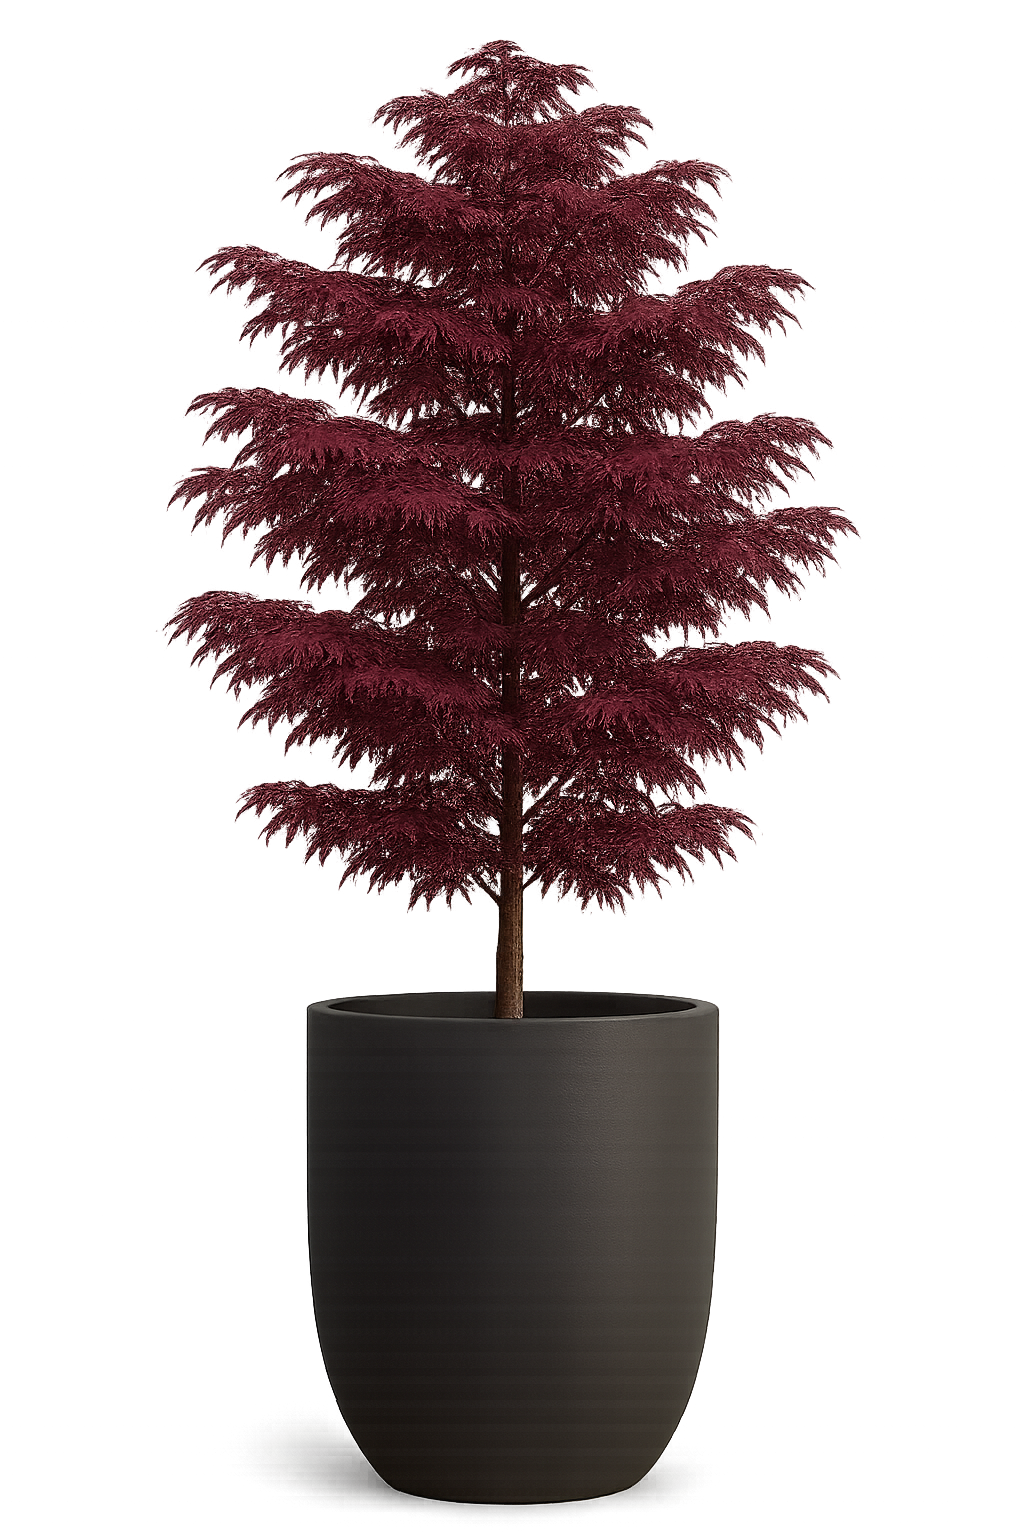
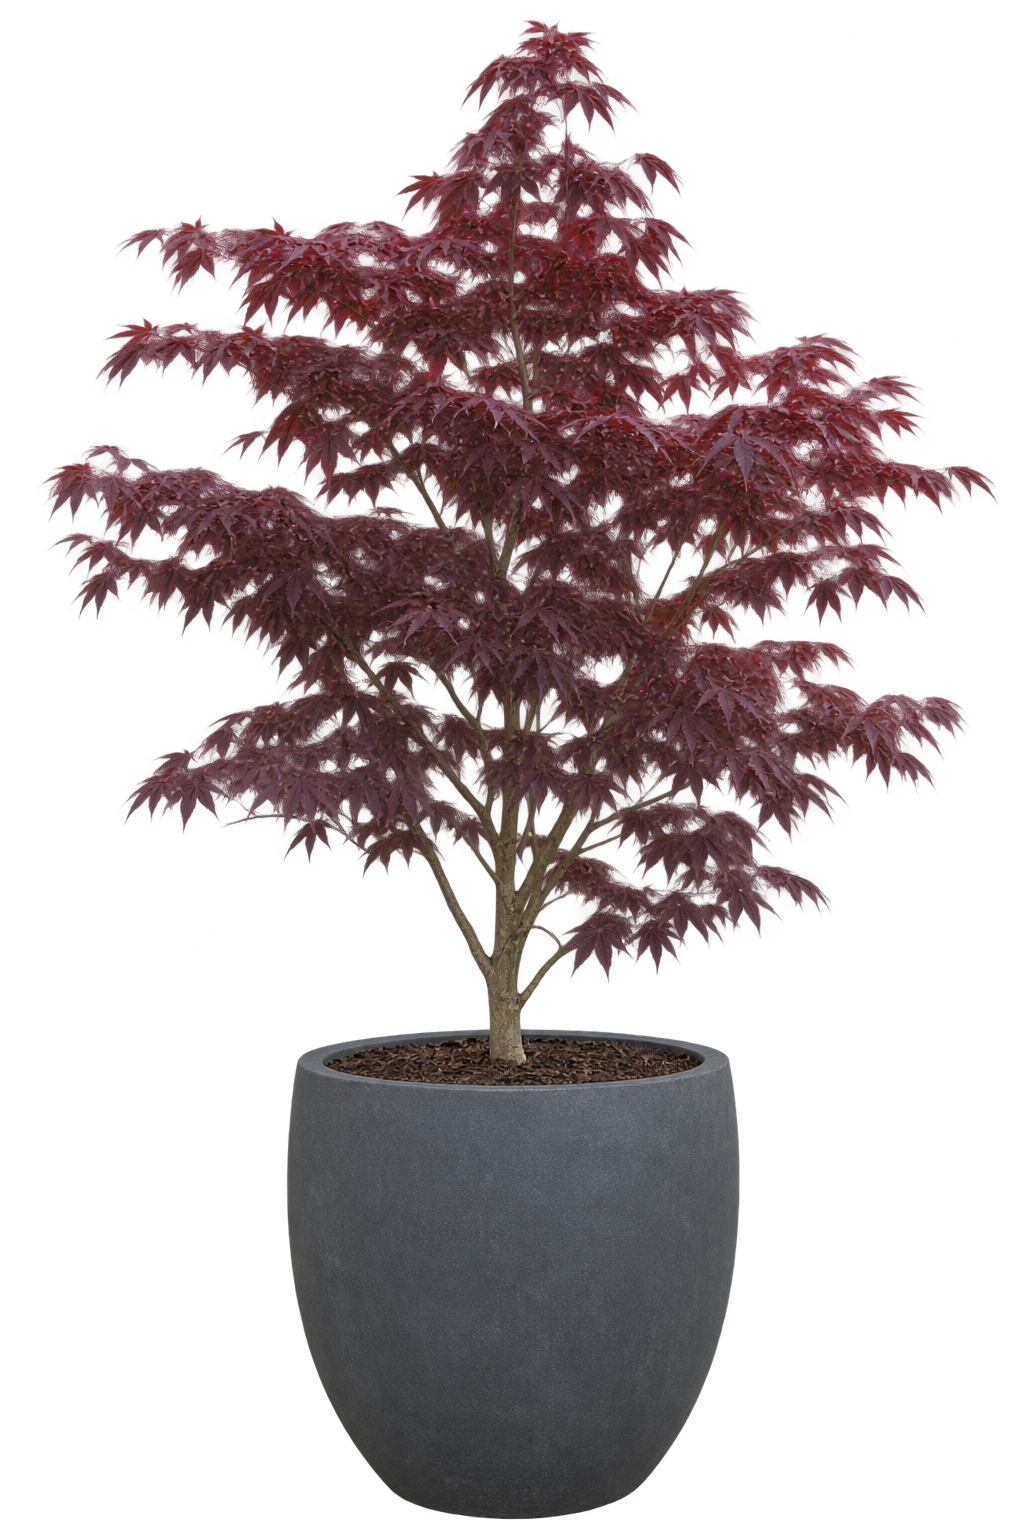
Paysagiste : sujets photoréalistes, posés avant les massifs (IA plante autour, sujets protégés), accord lumière et saturation, massifs en grandes masses
Claude-Session: https://claude.ai/code/session_01YAY5e847xAxdGDXU5Ma8dK

diff --git a/rendu/paysage/paysagiste.py b/rendu/paysage/paysagiste.py
@@ -150,6 +150,10 @@ def consigne_image(c, zones):
     if c.get('reperes'): lignes.append('Échelle : ' + c['reperes'] + '. Respecter les hauteurs indiquées.')
     lignes.append("Ne rien changer chez les voisins ni dans la rue (voitures, portails, clôtures voisines). Les produits en bois "
                   "(pergola, terrasse, clôtures) restent identiques : les plantes poussent devant, jamais à leur place.")
+    lignes.append("Plantation de paysagiste : grandes masses de 5 à 7 pieds de la même plante, répétées, sol entièrement "
+                  "couvert, pas de plantes annuelles ni de fleurs de balcon (pas de pétunias, surfinias, géraniums de balcon). "
+                  "Les pots et bacs déjà posés restent tels quels : les massifs les entourent et passent un peu devant leur pied, "
+                  "avec une ombre douce au sol.")
     lignes.append("Plantes installées depuis deux ou trois ans, sol couvert, bordures nettes. Photo naturelle et crédible, "
                   "pas un rendu 3D. Pas de personnage, pas de construction ajoutée.")
     return '\n'.join(lignes)
@@ -166,11 +170,16 @@ def union_calques(args):
     return u
 
 
-def poser(massifs, c, args, sortie):
-    pj = os.path.join(args.dossier, '_sujets.json')
+def poser(base, c, args, sortie):
+    """Pose les grands sujets sur l'image de base ; renvoie le calque produits + sujets (protégé de l'IA)."""
+    pj = os.path.join(args.dossier, '_sujets.json'); mj = os.path.join(args.dossier, '_sujets_masque.png')
     json.dump([{'sujet': s['sujet'], 'x': s['sol_px'][0], 'y': s['sol_px'][1]} for s in c.get('sujets', []) if s['sujet'] in SUJ], open(pj, 'w'))
-    r = subprocess.run(['python3', os.path.join(ICI, 'poser_sujets.py'), massifs, pj, args.cam, union_calques(args), sortie], capture_output=True, text=True)
+    r = subprocess.run(['python3', os.path.join(ICI, 'poser_sujets.py'), base, pj, args.cam, union_calques(args), sortie, '-', mj], capture_output=True, text=True)
     if r.returncode: raise RuntimeError(r.stderr[-1500:])
+    from PIL import ImageChops
+    cal = Image.open(args.calque).convert('RGBA'); a = ImageChops.lighter(cal.getchannel('A'), Image.open(mj).getchannel('A').resize(cal.size))
+    u = os.path.join(args.dossier, '_produits_sujets.png'); o = Image.new('RGBA', cal.size, (128, 128, 128, 0)); o.putalpha(a); o.save(u)
+    return u
 
 
 def generer(base, zones, c, args, sortie, tag):
@@ -183,7 +192,7 @@ def generer(base, zones, c, args, sortie, tag):
     fj = os.path.join(args.dossier, '_aucune.json'); json.dump([], open(fj, 'w'))
     if c.get('parcelle_px'):
         pj = os.path.join(args.dossier, 'parcelle.json'); json.dump([c['parcelle_px']], open(pj, 'w')); env['PARCELLE'] = pj
-    cmd = ['python3', os.path.join(RENDU, 'amenage.py'), base, zj, '1', cj, sortie, args.calque,
+    cmd = ['python3', os.path.join(RENDU, 'amenage.py'), base, zj, '1', cj, sortie, getattr(args, 'calque_ia', args.calque),
            args.pieds if args.pieds != '-' else vide, args.terrasse if args.terrasse != '-' else vide,
            '0.0']
     r = subprocess.run(cmd, env=env, capture_output=True, text=True)
@@ -306,24 +315,31 @@ def main():
     cp = os.path.join(a.dossier, 'concept.json')
     c = json.load(open(cp)) if os.path.exists(cp) else concept(img, cal, a.ville, a.dep, a.style, cp)
     print('concept :', c['titre'], '|', c['exposition'], '|', len(c['zones']), 'zones', flush=True)
-    mas = os.path.join(a.dossier, 'v0_massifs.jpg'); cur = os.path.join(a.dossier, 'v0.jpg')
-    if not os.path.exists(mas): generer(a.image, c['zones'], c, a, mas, 'v0')
-    poser(mas, c, a, cur)
+    def version(tag, c_, base_massifs, zones):
+        """sujets posés d'abord, puis massifs IA autour (sujets protégés, sauf le bas du pot)"""
+        suj = os.path.join(a.dossier, f'{tag}_sujets.jpg'); out = os.path.join(a.dossier, f'{tag}.jpg')
+        if base_massifs is None:
+            a.calque_ia = poser(a.image, c_, a, suj); generer(suj, zones, c_, a, out, tag)
+        else:
+            generer(base_massifs, zones, c_, a, out, tag)
+        return out
+    cur = os.path.join(a.dossier, 'v0.jpg')
+    if not os.path.exists(cur): cur = version('v0', c, None, c['zones'])
+    else: a.calque_ia = poser(a.image, c, a, os.path.join(a.dossier, 'v0_sujets.jpg'))
     r = relire(avant, cur, cal, c, a.image); journal.append({'version': 'v0', **r})
     print('v0 :', r['waouh'], r['credibilite_paysagere'], r['montage'], 'livrable' if r['livrable'] else '', flush=True)
     for t in range(1, a.tours + 1):
         if r['livrable'] or not (r.get('corrections') or r.get('sujets')): break
-        c2 = dict(c); 
+        c2 = dict(c)
         ok = [s for s in (r.get('sujets') or []) if s.get('sujet') in SUJ and s.get('sol_px')]
-        if ok: c2['sujets'] = ok          # une proposition du relecteur n'est retenue que si elle cite des sujets de la banque
-        nm = os.path.join(a.dossier, f'v{t}_massifs.jpg'); nv = os.path.join(a.dossier, f'v{t}.jpg')
-        if r.get('corrections'): generer(mas, r['corrections'], c, a, nm, f'v{t}')
-        else: Image.open(mas).save(nm, quality=94)
-        poser(nm, c2, a, nv)
+        if ok:   # sujets déplacés : on repart de la photo, sujets reposés, massifs regénérés (avec les corrections)
+            c2['sujets'] = ok; nv = version(f'v{t}', c2, None, c['zones'] + (r.get('corrections') or []))
+        else:
+            nv = version(f'v{t}', c2, cur, r['corrections'])
         r2 = relire(avant, nv, cal, c2, a.image); journal.append({'version': f'v{t}', **r2})
         print(f'v{t} :', r2['waouh'], r2['credibilite_paysagere'], r2['montage'], 'livrable' if r2['livrable'] else '', flush=True)
         if score(r2) > score(r) or (r2['livrable'] and not r['livrable']):
-            cur, mas, r, c = nv, nm, r2, c2
+            cur, r, c = nv, r2, c2
         else:
             print(f'v{t} rejetée (pas mieux que la précédente)', flush=True)
     final = os.path.join(a.dossier, 'final.jpg'); Image.open(cur).save(final, quality=94)

diff --git a/rendu/paysage/poser_sujets.py b/rendu/paysage/poser_sujets.py
@@ -11,7 +11,9 @@ ICI = os.path.dirname(os.path.abspath(__file__))
 img = Image.open(sys.argv[1]).convert('RGB'); W, H = img.size
 pl = json.load(open(sys.argv[2])); cam = json.load(open(sys.argv[3]))
 prod = np.asarray(Image.open(sys.argv[4]).convert('RGBA').resize((W, H)).getchannel('A')) > 120
-dossier = sys.argv[6] if len(sys.argv) > 6 else os.path.join(ICI, 'sujets')
+dossier = sys.argv[6] if len(sys.argv) > 6 and sys.argv[6] != '-' else os.path.join(ICI, 'sujets')
+sortie_masque = sys.argv[7] if len(sys.argv) > 7 else None
+masque = np.zeros((H, W), np.float32)
 SUJ = json.load(open(os.path.join(ICI, 'sujets.json')))
 f = (H / 2) / math.tan(math.radians(cam['vfov'] / 2))
 def ppm(y):   # pixels par mètre (hauteur) pour un objet posé au sol dont le pied est à la ligne y
@@ -54,8 +56,12 @@ for p in sorted(pl, key=lambda q: q['y']):                 # du plus loin au plu
     if m.any():
         sm, ss = Sc[..., :3][m].mean(0), Sc[..., :3][m].std(0) + 1
         em, es = env.mean(0), env.std(0) + 1
-        g = (0.6 + 0.4 * em.mean() / max(sm.mean(), 1))          # luminosité seulement, sans teinter le sujet
+        g = (0.35 + 0.65 * em.mean() / max(sm.mean(), 1))         # luminosité de la scène autour
         Sc[..., :3] = Sc[..., :3] * g
+        ls = Sc[..., :3].mean(-1, keepdims=True)
+        sat_s = (Sc[..., :3][m].std(-1)).mean() + 1; sat_e = env.std(-1).mean() + 1
+        Sc[..., :3] = ls + (Sc[..., :3] - ls) * min(1.0, 0.55 + 0.45 * sat_e / sat_s)   # pas plus saturé que la scène
+        for c_ in range(3): Sc[..., c_] = ndi.gaussian_filter(Sc[..., c_], 0.6)
     # ombres : ombre de contact (ellipse au pied) et ombre portée douce vers l'arrière gauche
     sh = np.zeros((H, W), np.float32)
     yy, xx = np.ogrid[:H, :W]
@@ -73,7 +79,11 @@ for p in sorted(pl, key=lambda q: q['y']):                 # du plus loin au plu
     out *= (1 - sh[..., None])
     out[Y0:Y1, X0:X1] = out[Y0:Y1, X0:X1] * (1 - ac) + Sc[..., :3] * ac
     # produits plus proches que le sujet (leur pied est plus bas dans l'image) : ils repassent devant
+    mz = np.zeros((H, W), np.float32); mz[Y0:Y1, X0:X1] = ac[..., 0]
+    mz[int(p['y'] - (Y1 - Y0) * 0.2):] = 0; masque = np.maximum(masque, mz)
     devant = (pied > p['y'] + 12)
     out[devant] = base[devant]
 Image.fromarray(np.clip(out, 0, 255).astype('uint8')).save(sys.argv[5], quality=94)
+if sortie_masque:
+    o = Image.new('RGBA', (W, H), (0, 0, 0, 0)); o.putalpha(Image.fromarray(((masque > 0.4) * 255).astype('uint8'))); o.save(sortie_masque)
 print('ok', len(pl), 'sujets posés')

diff --git a/rendu/paysage/gen_sujets.py b/rendu/paysage/gen_sujets.py
@@ -2,9 +2,10 @@
 import json, os, sys, base64, urllib.request, concurrent.futures as cf
 S = json.load(open(os.path.join(os.path.dirname(os.path.abspath(__file__)), 'sujets.json')))
 K = os.environ['OPENAI_API_KEY']; out = sys.argv[1]
-B = ("Product photo of a single potted plant for a garden, isolated, centered, entirely visible from the bottom of the pot to the top "
-     "of the foliage with margin, straight-on view at eye level, soft natural daylight from the upper right, realistic, no shadow, "
-     "transparent background, no text, no other object. ")
+B = ("Real photograph, not an illustration: a single real potted plant as found in a French garden center, natural irregular "
+     "growth, botanically accurate, isolated, entirely visible from the bottom of the pot to the top of the foliage with margin, "
+     "straight-on view at eye level, soft overcast daylight, natural colors (not oversaturated), no shadow, transparent background, "
+     "no text, no other object. ")
 def go(k):
     f = os.path.join(out, k + '.png')
     if os.path.exists(f): return k, 'deja'
